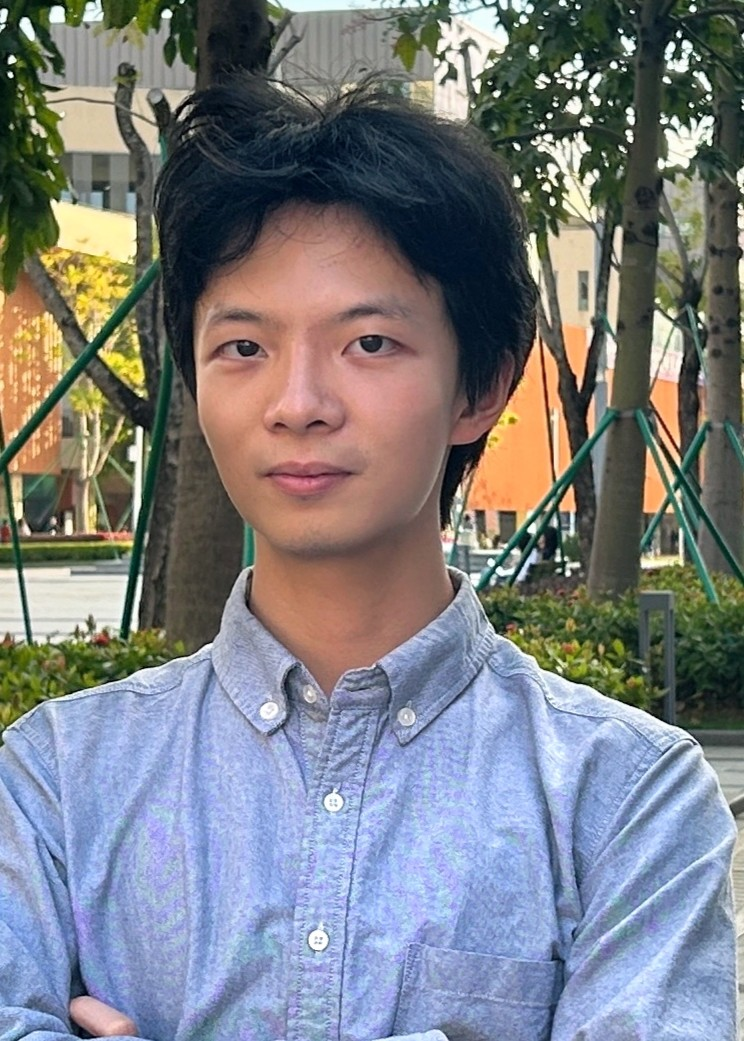
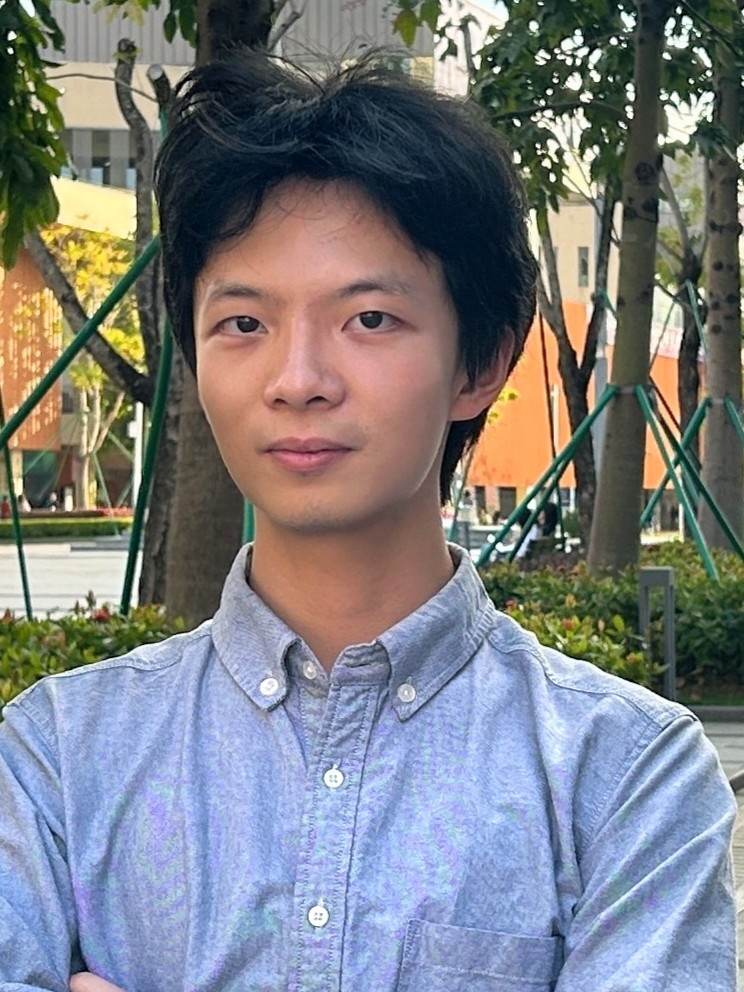
photo3

diff --git a/docs/.vitepress/theme/style.css b/docs/.vitepress/theme/style.css
@@ -166,10 +166,19 @@
   pointer-events: none;
 }
 :root .banner-strip::after {
-  background: linear-gradient(to bottom, rgba(245,249,253,0) 0%, rgba(245,249,253,1) 100%);
+  background: linear-gradient(to bottom, rgba(245,249,253,0) 0%, rgba(245,249,253,0.45) 60% , rgba(245,249,253,1.0) 100%);
+  pointer-events: none;
+  z-index: 0;
 }
 .dark .banner-strip::after {
-  background: linear-gradient(to bottom, rgba(10,26,51,0) 0%, rgba(10,26,51,1) 100%);
+  background: linear-gradient(to bottom,rgba(13, 32, 64, 0) 0%,    /* 顶部轻透，保留图片感 */
+  rgba(13, 32, 64, 0.35) 55%,   /* 中部压暗保证文字可读 */
+  rgba(13, 32, 64, 1.0) 100%);
+}
+
+:root .banner-strip > * {
+  position: relative;
+  z-index: 1;
 }
 
 /* Also remove top padding from VPDoc content on academic page */
